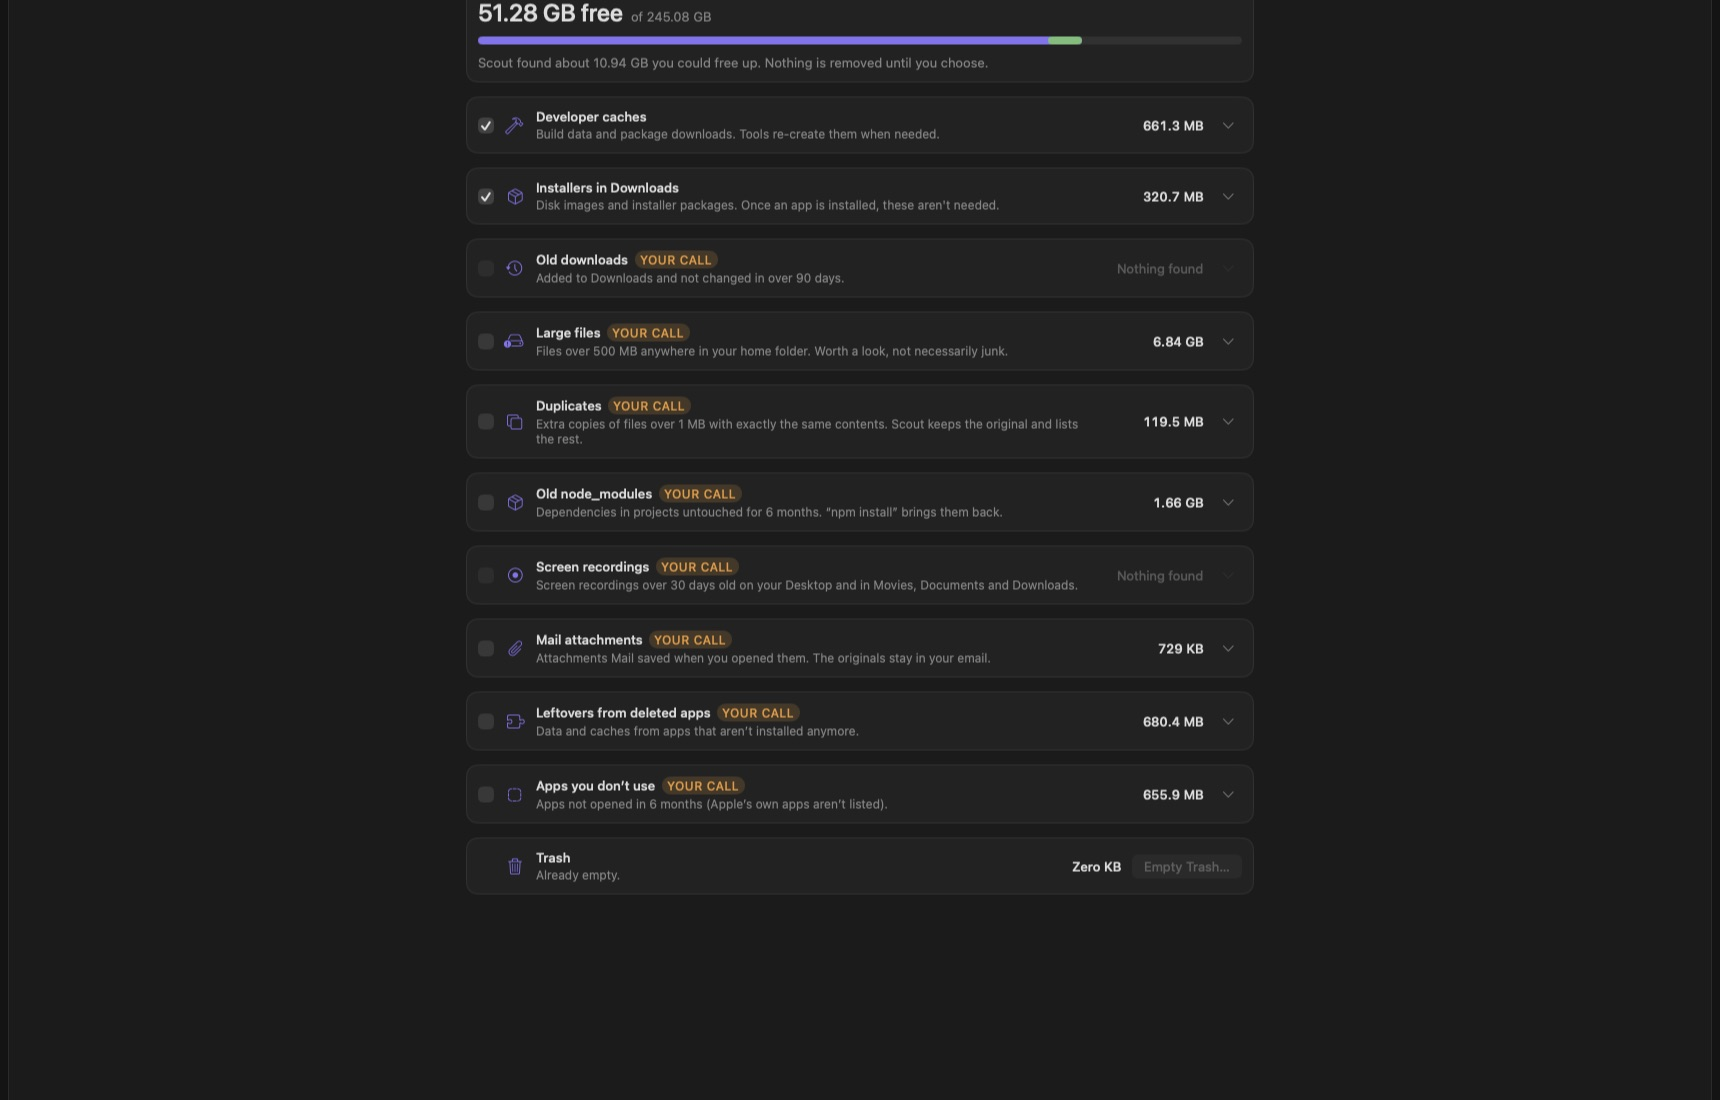
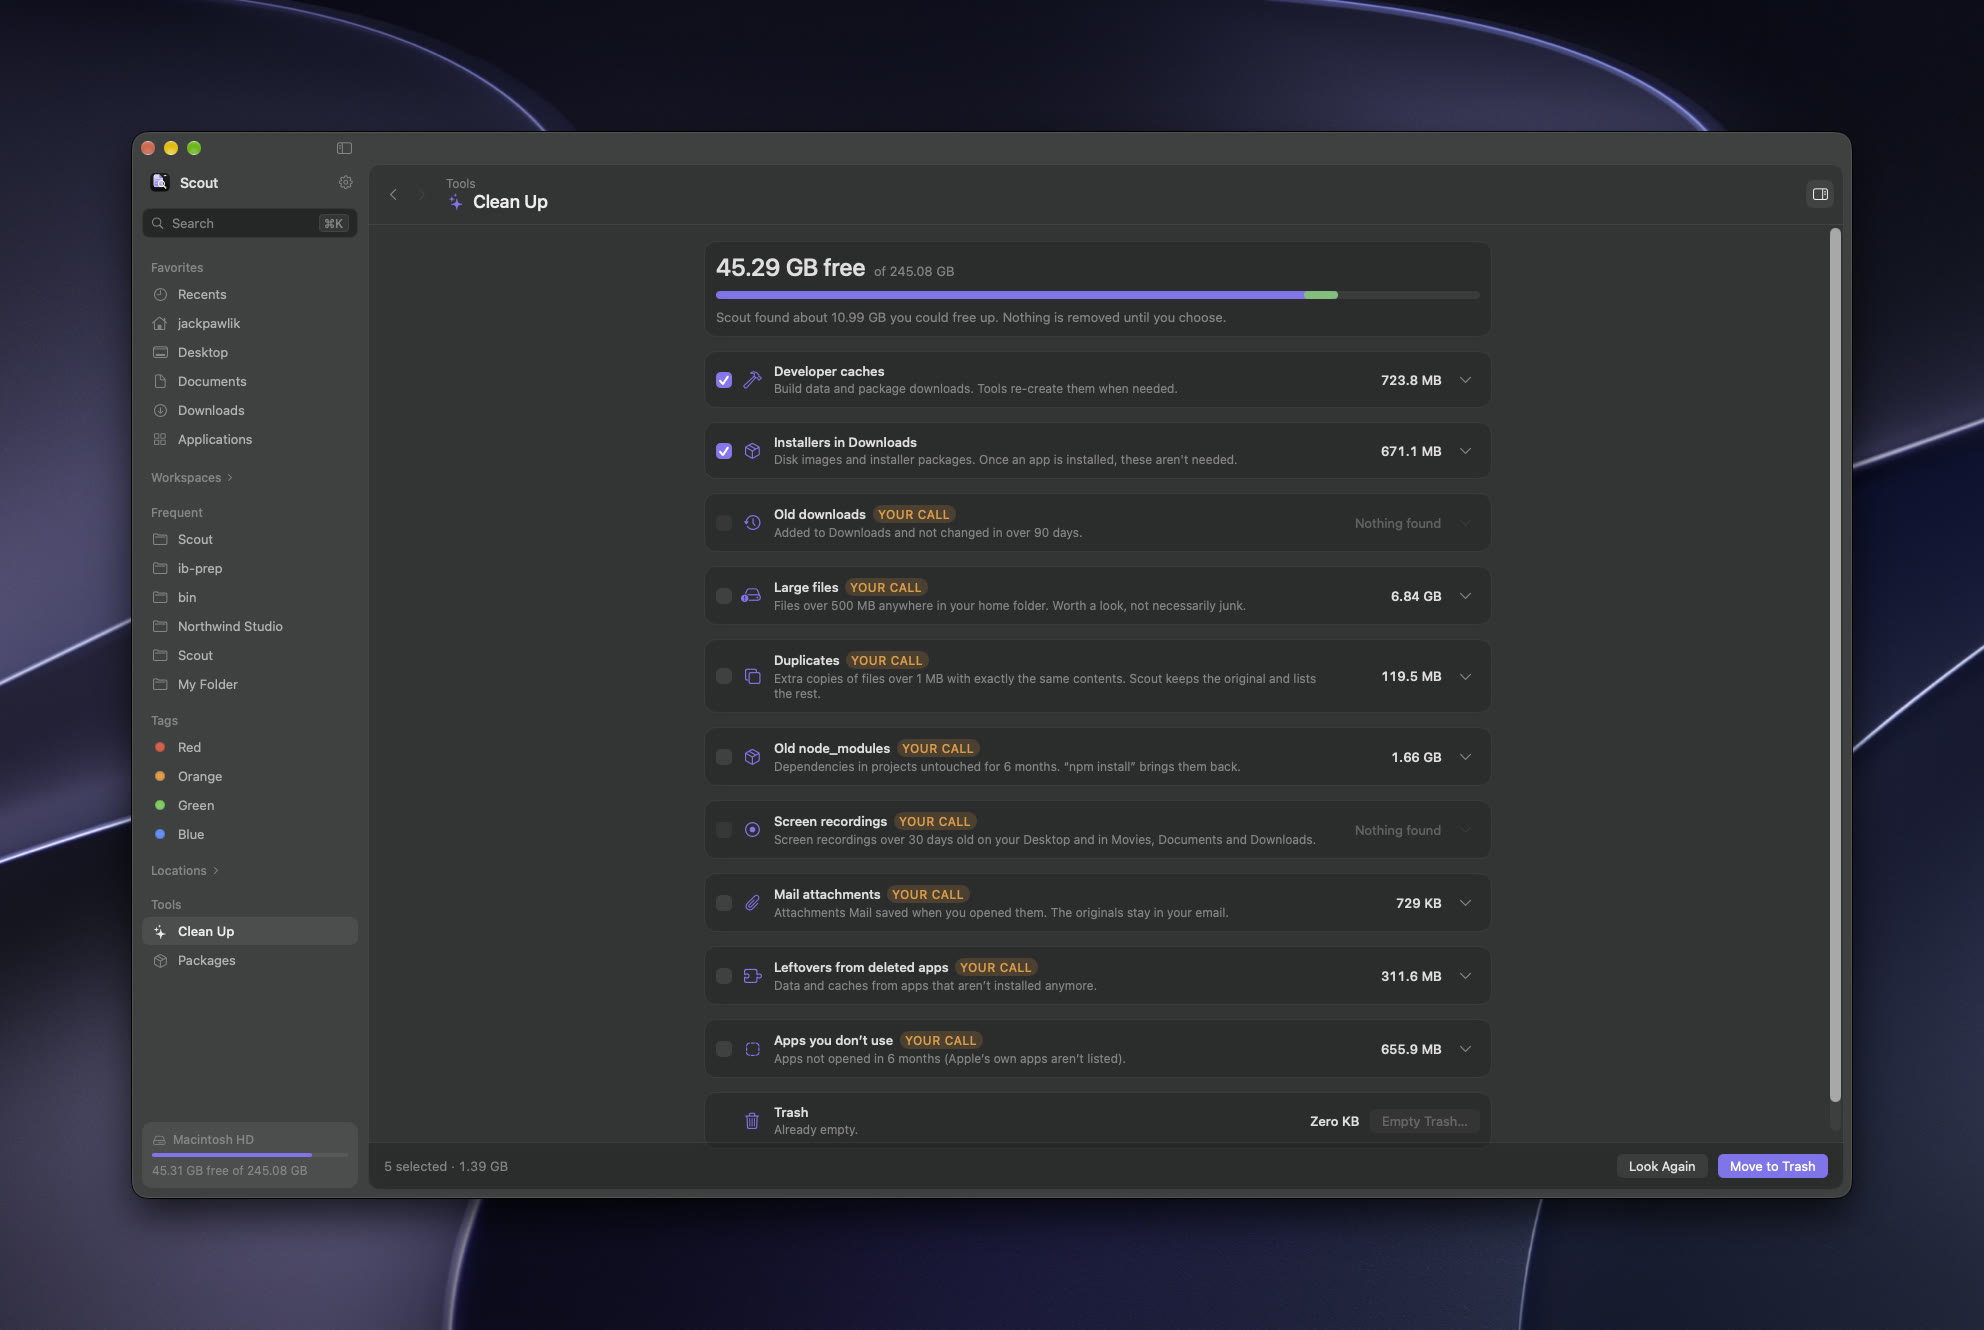
Scout 0.2.2: new screenshots, link preview card, changelog

diff --git a/site/index.html b/site/index.html
@@ -6,6 +6,14 @@
 <meta name="claude:viewport-fit-sides" content="cover">
 <title>Scout for Mac</title>
 <meta name="description" content="Scout is a fast, keyboard-first file browser for macOS. Jump to any folder, group and tidy what piles up, and see what's taking the space.">
+<meta property="og:type" content="website">
+<meta property="og:title" content="Scout for Mac">
+<meta property="og:description" content="A fast, keyboard-first file browser for macOS. Free and open source.">
+<meta property="og:url" content="https://scout.jackpawlik.workers.dev/">
+<meta property="og:image" content="https://scout.jackpawlik.workers.dev/assets/social.jpg">
+<meta property="og:image:width" content="1200">
+<meta property="og:image:height" content="630">
+<meta name="twitter:card" content="summary_large_image">
 <link rel="icon" href="assets/icon.png">
 <link rel="preconnect" href="https://fonts.googleapis.com">
 <link rel="preconnect" href="https://fonts.gstatic.com" crossorigin>
@@ -30,7 +38,7 @@
 
 <header class="hero">
   <div class="wrap">
-    <a class="announce" href="changelog/"><b>Scout 0.2</b> Rename presets, a new look and a security pass →</a>
+    <a class="announce" href="changelog/"><b>Scout 0.2.2</b> Multi-file drag and Shift-select, plus rename presets →</a>
     <h1>The fastest way around your Mac.</h1>
     <p class="sub">Scout is a native file browser for macOS. Press ⌥Space from any app, type a few letters, and you're in the folder. It groups and tidies what piles up, and shows you what's taking the space.</p>
     <div class="hero-cta">
@@ -39,7 +47,7 @@
     </div>
     <p class="hero-note">Free and open source · macOS 26 and later · Apple silicon and Intel · <a href="https://github.com/jackpawlik26/scout#install">How to install</a></p>
     <div class="hero-shot">
-      <div class="shot"><img src="assets/list.jpg" width="1720" height="1160" alt="Scout's list view: a project folder grouped into Folders, Documents, Images and PDF Documents, with an image preview in the info panel"></div>
+      <div class="shot"><img src="assets/list.jpg" width="1984" height="1330" alt="Scout's list view of a design studio folder: client folders expanded in place, a proposal PDF selected and previewed in the info panel, tags in the sidebar"></div>
     </div>
   </div>
 </header>
@@ -59,7 +67,7 @@
             <p>⌥Space opens Scout's palette over any app. Pick a folder and you're there; press Esc to go back to what you were doing.</p>
             <div class="keys"><kbd>⌥ Space</kbd><kbd>⌘K</kbd></div>
           </div>
-          <div class="tile-media"><div class="shot"><img src="assets/palette.jpg" width="900" height="560" alt="Scout's search palette finding the Northwind Studio folder" loading="lazy"></div></div>
+          <div class="tile-media"><div class="shot"><img src="assets/palette.jpg" width="680" height="512" alt="Scout's search palette finding files named Harbor inside the Northwind Studio folder" loading="lazy"></div></div>
         </article>
         <article class="tile">
           <div class="tile-text">
@@ -80,7 +88,7 @@
             <h3>Organize without moving things around</h3>
             <p>Color and label folders, tag files the same way Finder does, gather a project's folders into a Workspace, and keep a Shelf for files you're collecting. List, icon and column views, with split panes for moving between two places.</p>
           </div>
-          <div class="tile-media crop"><div class="shot"><img src="assets/icons.jpg" width="1720" height="900" alt="Scout's icon view with colored folders for Brand Assets, Client Work and Taxes 2026" loading="lazy"></div></div>
+          <div class="tile-media crop"><div class="shot"><img src="assets/split.jpg" width="1725" height="1066" alt="Scout in split view: the Northwind Studio folder on the left and its Inbox on the right" loading="lazy"></div></div>
         </article>
       </div>
 
@@ -121,7 +129,7 @@
         <p>Developer caches, old installers, duplicates, forgotten node_modules and apps you don't use. Scout explains each one, ticks only the safe ones, and moves your picks to the Trash so nothing is gone for good.</p>
       </div>
       <div class="hero-shot" style="margin-top:52px">
-        <div class="shot"><img src="assets/cleanup.jpg" width="1720" height="1160" alt="Scout's Clean Up page listing developer caches, installers, duplicates, old node_modules and unused apps with their sizes" loading="lazy"></div>
+        <div class="shot"><img src="assets/cleanup.jpg" width="1984" height="1330" alt="Scout's Clean Up page listing developer caches, installers, duplicates, old node_modules and unused apps with their sizes" loading="lazy"></div>
       </div>
     </div>
   </section>
@@ -195,7 +203,7 @@
 
   <div class="cta">
     <div class="wrap">
-      <h2>Fifteen builds in, and moving fast.</h2>
+      <h2>Sixteen builds in, and moving fast.</h2>
       <p>See everything that's been added, changed, fixed and removed since the first version.</p>
       <div class="hero-cta"><a class="btn btn-dark" href="https://github.com/jackpawlik26/scout/releases/latest/download/Scout.zip"><svg width="16" height="16" viewBox="0 0 16 16" fill="none" stroke="currentColor" stroke-width="1.8" stroke-linecap="round" stroke-linejoin="round" aria-hidden="true"><path d="M8 2v8.5M4.5 7.5 8 11l3.5-3.5M3 14h10"/></svg>Download for Mac</a><a class="btn btn-line" href="changelog/">Read the changelog</a></div>
     </div>

diff --git a/site/changelog/index.html b/site/changelog/index.html
@@ -55,6 +55,16 @@
 <script>
 const BUILDS = [
   {
+    date: "Nov 14, 2026", time: "Scout 0.2.2", hash: "v0.2.2", title: "Select and drag like Finder",
+    summary: "Fixes for selecting and moving several files at once, found in launch-day testing.",
+    changes: [
+      ["fixed", "Dragging several selected files onto a folder now moves all of them, in list, icon and column views. Dropping on a folder in list view didn't work at all before."],
+      ["fixed", "In icon and column views, Shift with the arrow keys grows the selection, and Shift-click selects everything in between. ⌘-click still adds or removes one file."],
+      ["fixed", "After closing a split view, the view, sort and filter buttons at the top could pile on top of each other until the window was resized."],
+      ["changed", "New screenshots on the website and GitHub."],
+    ],
+  },
+  {
     date: "Nov 14, 2026", time: "Scout 0.2.1", hash: "v0.2.1", title: "Sturdier icons",
     summary: "A small follow-up to 0.2.",
     changes: [

diff --git a/README.md b/README.md
@@ -15,7 +15,7 @@
 </p>
 
 <p align="center">
-  <img src="site/assets/list.jpg" alt="Scout showing a folder grouped by kind, with the info panel open" width="860">
+  <img src="site/assets/list.jpg" alt="Scout's list view: client folders expanded in place, with a PDF previewed in the info panel" width="860">
 </p>
 
 ## Install
@@ -35,9 +35,11 @@ After that, Scout opens like any other app. macOS will also ask whether Scout ca
 
 **Find anything in a few keystrokes.** Press ⌥Space in any app, or ⌘K inside Scout, and type a few letters. Folders you use most come first; files are found by name or by what's inside them. Filter by kind or date, and save searches you repeat.
 
-<p align="center"><img src="site/assets/palette.jpg" alt="The Scout palette finding a folder" width="720"></p>
+<p align="center"><img src="site/assets/palette.jpg" alt="The Scout palette finding files inside a folder" width="560"></p>
 
 **Browse your way.** Tabs, split view (⌘D), list, icons or columns, and folders that open in place. Tabs and splits come back after you quit, just like Finder.
+
+<p align="center"><img src="site/assets/split.jpg" alt="Split view: a folder on the left and its Inbox on the right" width="720"></p>
 
 **Move things without dragging.** Select files, press ⇧⌘M, type a few letters of where they should go, and press Return. Every move, rename and trash can be undone with ⌘Z.
 
@@ -51,7 +53,11 @@ After that, Scout opens like any other app. macOS will also ask whether Scout ca
 
 **Made for the keyboard.** Almost everything has a shortcut, and you can change 50 of them. Press ⌘/ in Scout for the list, or see [all shortcuts](docs/SHORTCUTS.md).
 
+<p align="center"><img src="site/assets/shortcuts.jpg" alt="Scout's keyboard shortcuts sheet" width="720"></p>
+
 **For developers.** Turn on **Settings ▸ Developer tools** for git branch and file status in every folder, Open in Terminal or your editor, and a page for your Homebrew and npm packages. There are also `scout://` links, a `scout` command and a Raycast extension. See [Scout for power users](docs/POWER-USERS.md).
+
+<p align="center"><img src="site/assets/packages.jpg" alt="The Packages page listing Homebrew and npm packages with available updates" width="720"></p>
 
 **Private.** No account, no tracking. Your files and Scout's index stay on your Mac.
 

diff --git a/scripts/release-notes.md b/scripts/release-notes.md
@@ -1,4 +1,4 @@
-**Scout 0.2.1**: sturdier icons (about a 1.5-pixel stroke instead of 1), on top of everything in 0.2: rename presets, a new look, and a safety pass.
+**Scout 0.2.2**: select and drag several files like Finder. Dragging a selection onto a folder moves all of it (in list, icon and column views), Shift with the arrow keys or Shift-click selects a range, and the toolbar no longer jumbles after closing a split view. Plus everything in 0.2: rename presets, a new look, and a safety pass.
 
 ### Install
 1. Download **Scout.zip** below and open it.
